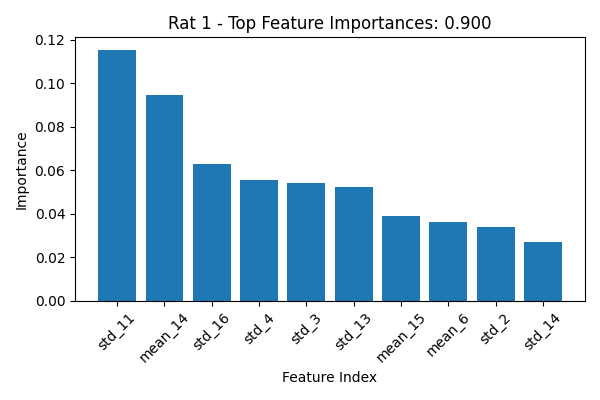
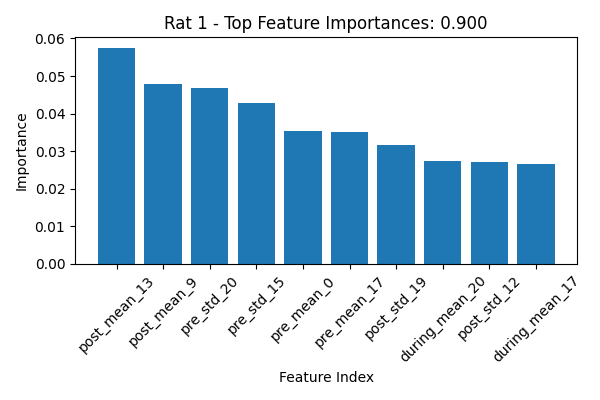
Temporal features rf importance graphs

diff --git a/src/cluster_explore.py b/src/cluster_explore.py
@@ -46,6 +46,9 @@ def neuron_per_trial():
     df = load_file('PFC_con_4.csv')
 
     time_cols = df.columns[5:]
+    pre_cols = time_cols[:20]
+    during_cols = time_cols[20:80]
+    post_cols = time_cols[80:]
 
     # Unique trial ID
     df['Trial Key'] = list(zip(df[df.columns[0]], df[df.columns[2]]))
@@ -59,9 +62,15 @@ def neuron_per_trial():
         press = group[df.columns[4]].iloc[0]
         cue_type = group[df.columns[3]].iloc[0]
 
-        mean_vec = group[time_cols].mean(axis=1).values
-        std_vec = group[time_cols].std(axis=1).values
-        trial_vec = np.concatenate([mean_vec, std_vec])
+        pre_mean = group[pre_cols].mean(axis=1).values
+        during_mean = group[during_cols].mean(axis=1).values
+        post_mean = group[post_cols].mean(axis=1).values
+
+        pre_std = group[pre_cols].std(axis=1).values
+        during_std = group[during_cols].std(axis=1).values
+        post_std = group[post_cols].std(axis=1).values
+
+        trial_vec = np.concatenate([pre_mean, pre_std, during_mean, during_std, post_mean, post_std])
 
         rat_features[rat_id].append(trial_vec)
         rat_labels[rat_id].append(press)
@@ -78,12 +87,29 @@ def neuron_per_trial():
         y_neg = y[neg_mask]
 
         # Make feature names
-        num_units = X.shape[1] // 2
-        feature_names = [f"mean_{i}" for i in range(num_units)] + [f"std_{i}" for i in range(num_units)]
+        num_units = X.shape[1] // 6
+        feature_names = []
+        for i in range(num_units):
+            feature_names += [f"pre_mean_{i}", f"pre_std_{i}", f"during_mean_{i}", f"during_std_{i}", f"post_mean_{i}", f"post_std_{i}"]
 
         print(f"Training model for Rat {rat_id}")
 
         X_train, X_test, y_train, y_test = train_test_split(X_neg, y_neg, test_size=0.2, stratify=y_neg, random_state=42)
+
+        # Oversampling
+        from sklearn.utils import resample
+        X_press = X_train[y_train == 1]
+        X_nopress = X_train[y_train == 0]
+
+        if len(X_press) == 0 or len(X_nopress) == 0:
+            print("Skipping Rat {rat_id} due to insufficient data.")
+            continue
+    
+        X_press_unsampled, y_press_unsampled = resample(X_press, y_train[y_train==1], replace=True, n_samples=len(X_nopress), random_state=42)
+
+        X_train = np.vstack([X_nopress, X_press_unsampled])
+        y_train = np.hstack([y_train[y_train==0], y_press_unsampled])
+
         # clf = LogisticRegression(max_iter=1000)
         clf = RandomForestClassifier(n_estimators=100, random_state=42, class_weight='balanced')
         clf.fit(X_train, y_train)
